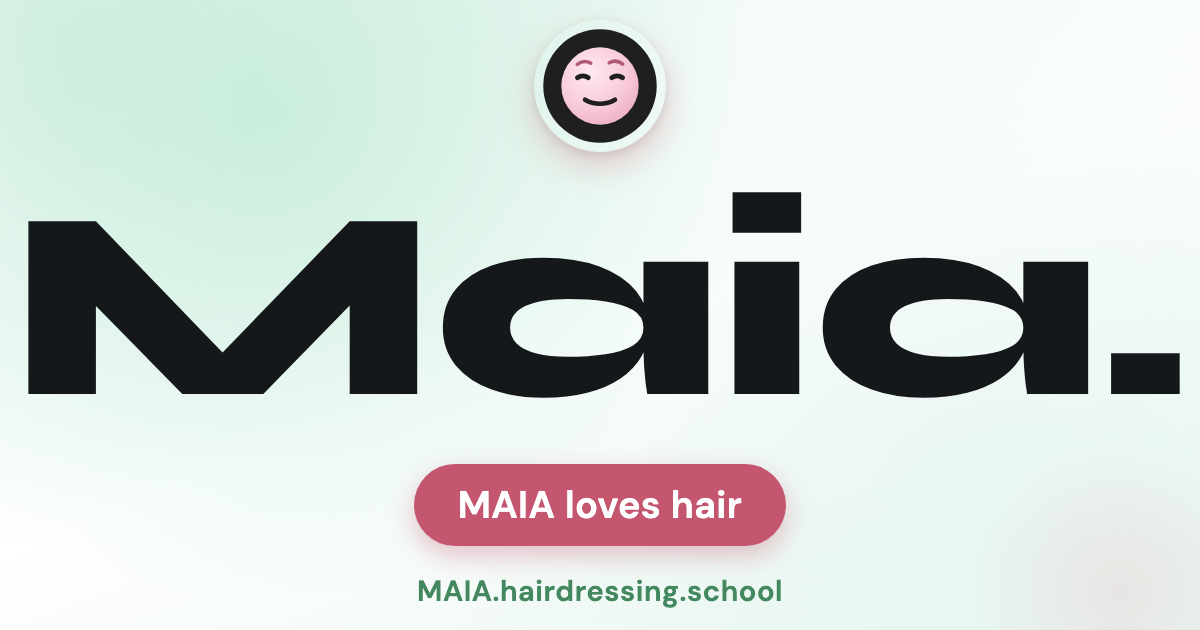
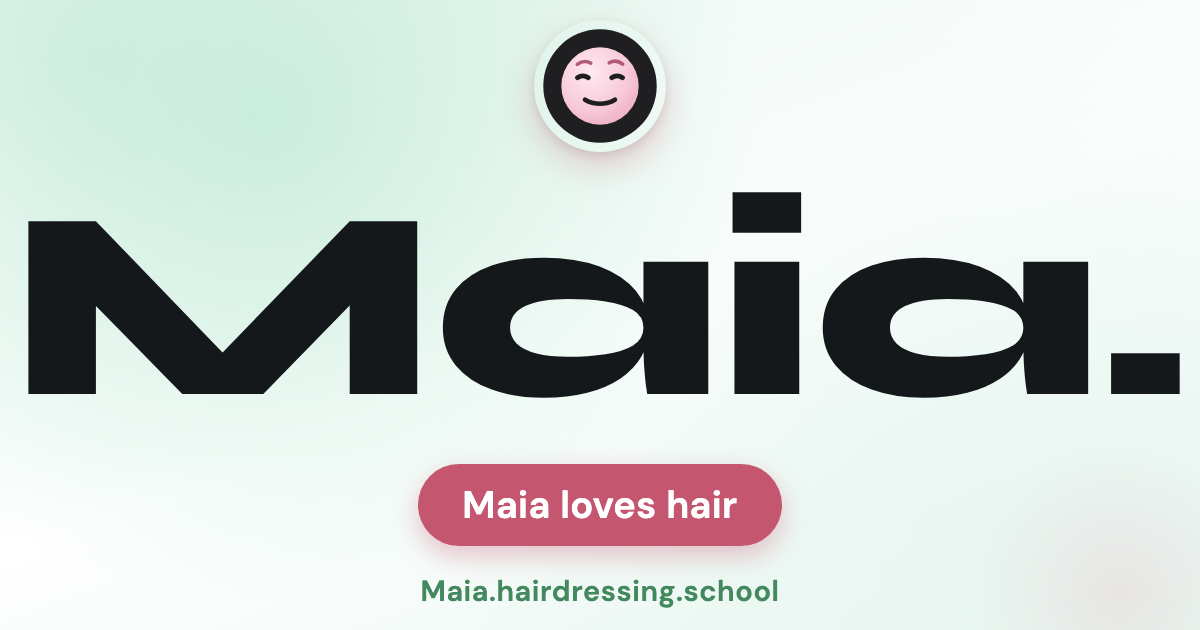
OG: brand casing MAIA -> Maia (pill, domain line, meta)

diff --git a/index.html b/index.html
@@ -3,21 +3,21 @@
 <head>
 <meta charset="utf-8">
 <meta name="viewport" content="width=device-width, initial-scale=1, maximum-scale=1">
-<title>MAIA.hairdressing.school</title>
-<meta name="description" content="MAIA loves hair">
+<title>Maia.hairdressing.school</title>
+<meta name="description" content="Maia loves hair">
 <!-- Open Graph / Link-Vorschau -->
 <meta property="og:type" content="website">
-<meta property="og:site_name" content="MAIA.hairdressing.school">
+<meta property="og:site_name" content="Maia.hairdressing.school">
 <meta property="og:url" content="https://hannestrummer.github.io/maia-coaching-demo/">
-<meta property="og:title" content="MAIA.hairdressing.school">
-<meta property="og:description" content="MAIA loves hair">
+<meta property="og:title" content="Maia.hairdressing.school">
+<meta property="og:description" content="Maia loves hair">
 <meta property="og:image" content="https://hannestrummer.github.io/maia-coaching-demo/og.png">
 <meta property="og:image:width" content="1200">
 <meta property="og:image:height" content="630">
-<meta property="og:image:alt" content="MAIA loves hair">
+<meta property="og:image:alt" content="Maia loves hair">
 <meta name="twitter:card" content="summary_large_image">
-<meta name="twitter:title" content="MAIA.hairdressing.school">
-<meta name="twitter:description" content="MAIA loves hair">
+<meta name="twitter:title" content="Maia.hairdressing.school">
+<meta name="twitter:description" content="Maia loves hair">
 <meta name="twitter:image" content="https://hannestrummer.github.io/maia-coaching-demo/og.png">
 <link rel="stylesheet" href="styles.css">
 </head>